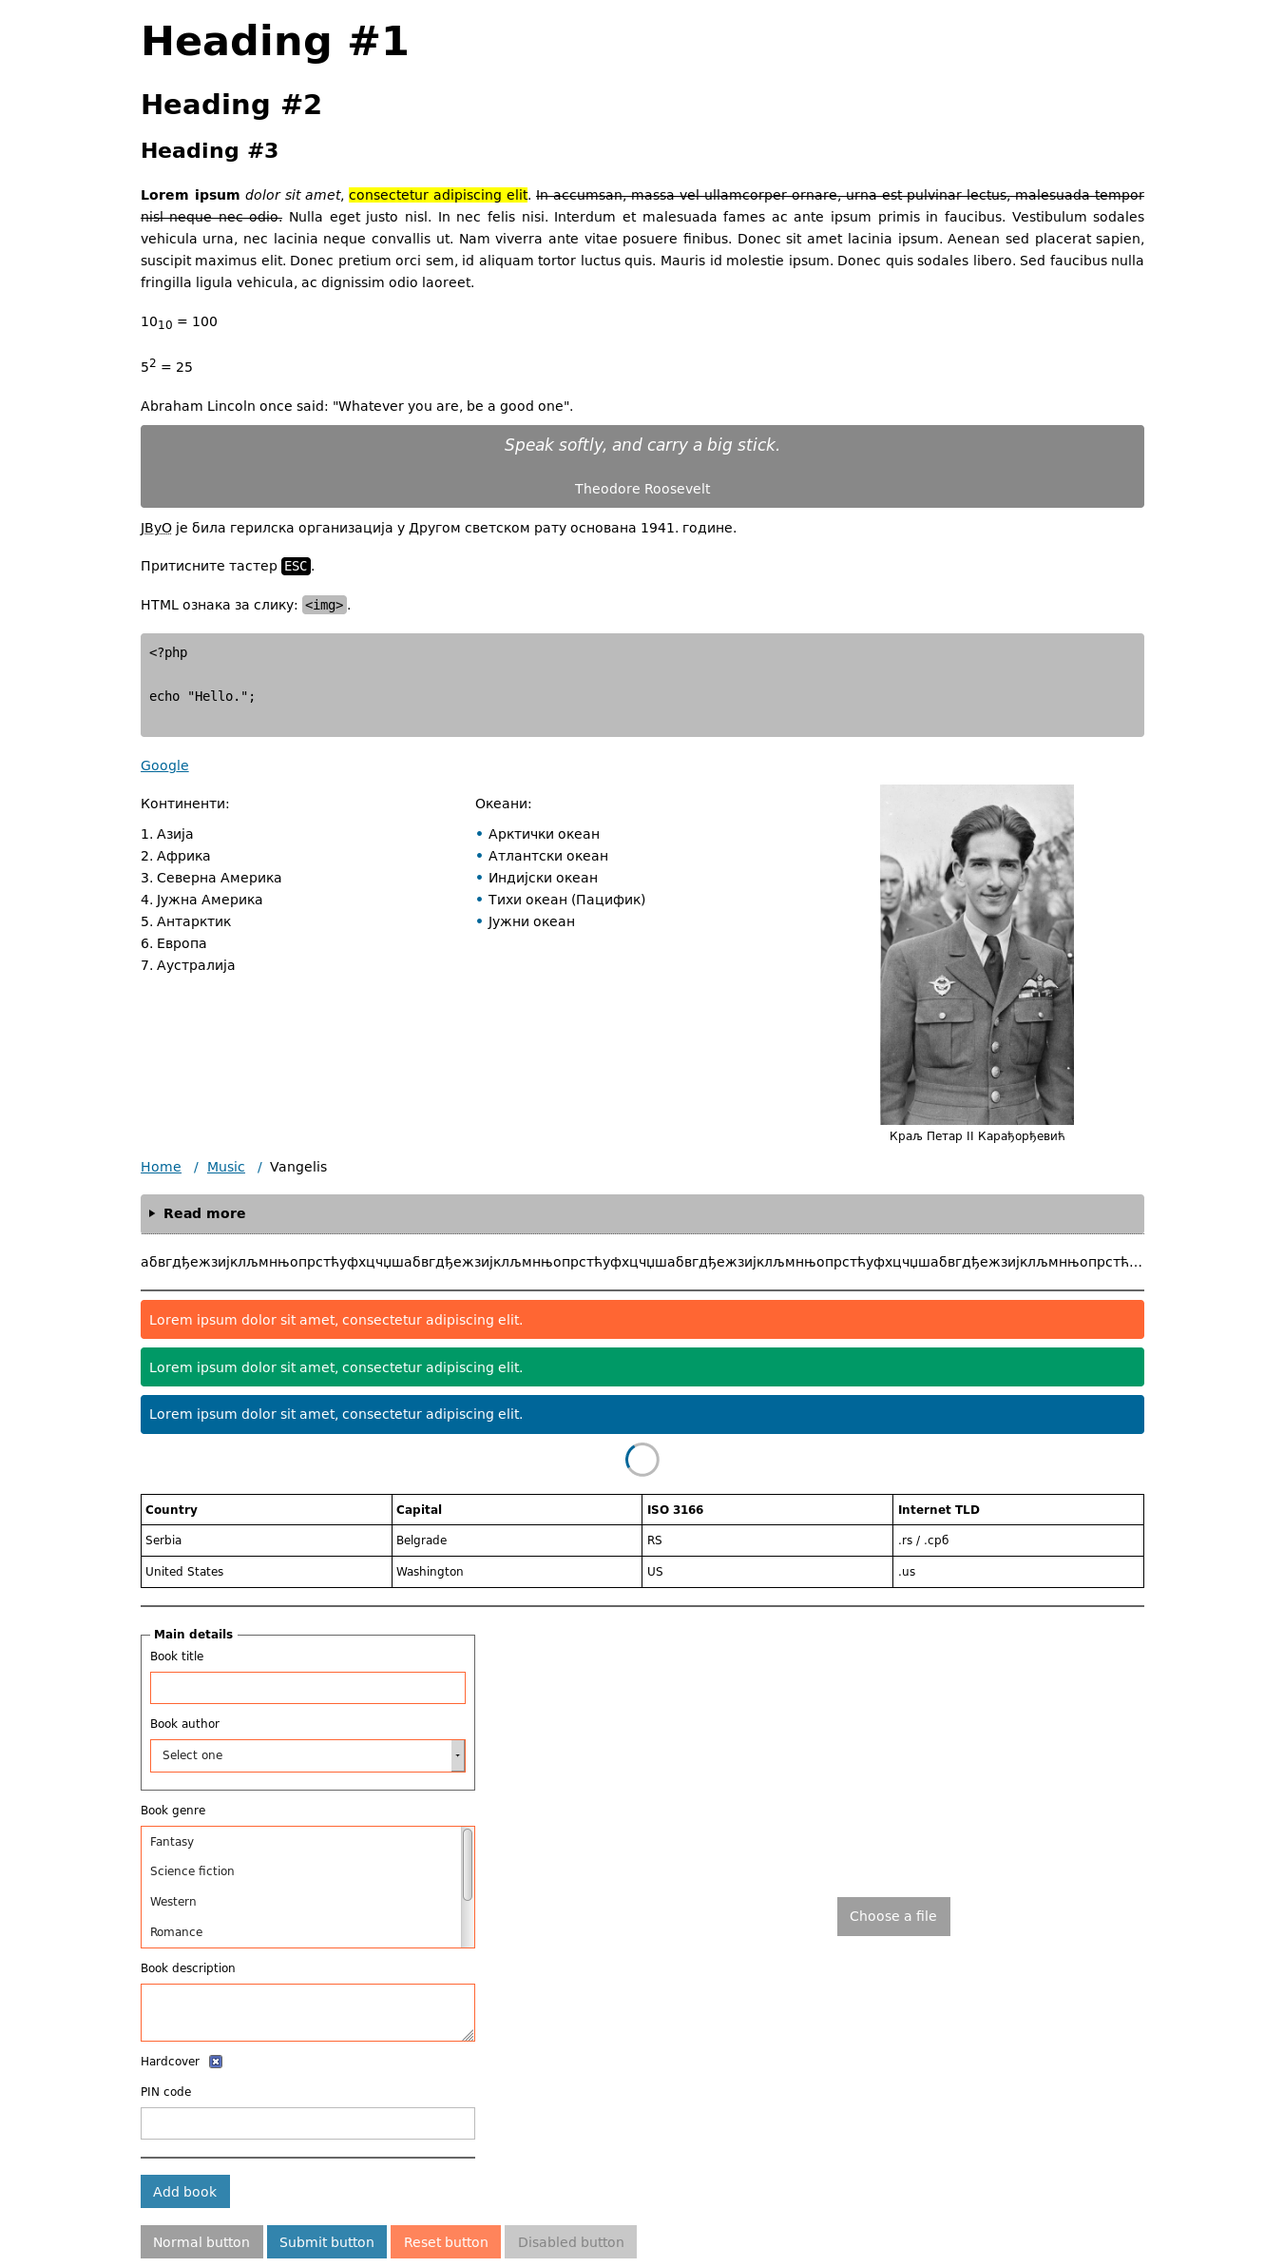
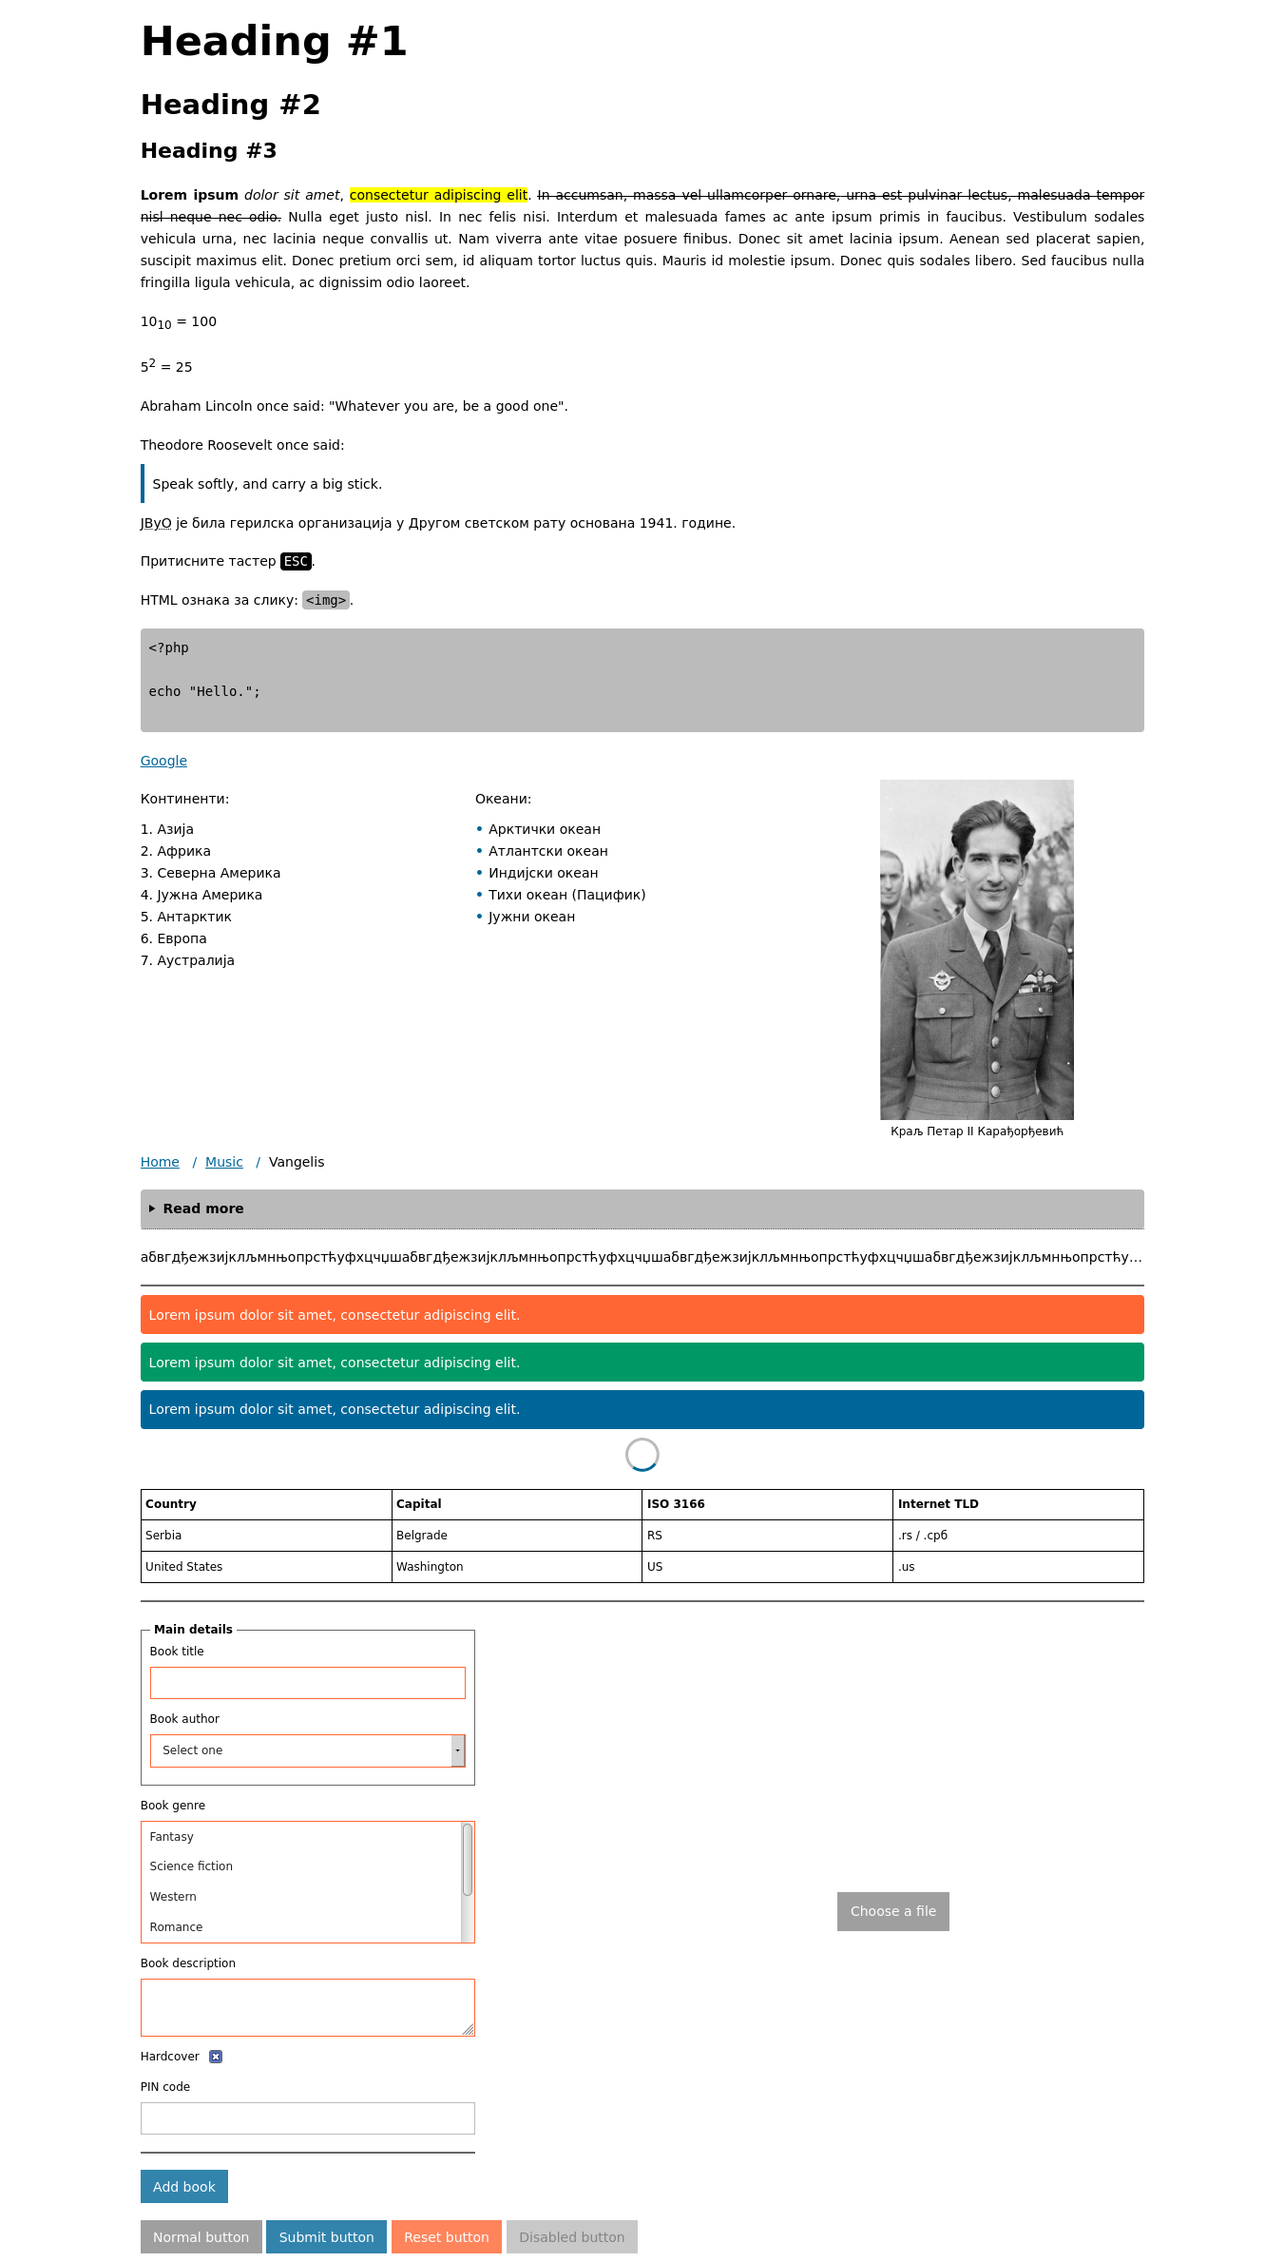
Change blockquote style

diff --git a/css/minimalizr.css b/css/minimalizr.css
@@ -1,1 +1,1 @@
-*{box-sizing:border-box;margin:0;outline:none;padding:0}*:focus{outline:1px dotted #888;outline-offset:3px}html{scroll-behavior:smooth}body{font-family:sans-serif;font-size:1rem;line-height:1.6rem;word-wrap:break-word}::selection{background-color:#069;color:#fff}button{font-size:1rem}.container{width:1200px;max-width:100%;margin:0 auto;padding:0 10px}.container-fluid{width:100%}.row{display:grid;grid-template-columns:repeat(12, 1fr)}.col-md-1{grid-column:span 1}.col-md-2{grid-column:span 2}.col-md-3{grid-column:span 3}.col-md-4{grid-column:span 4}.col-md-5{grid-column:span 5}.col-md-6{grid-column:span 6}.col-md-7{grid-column:span 7}.col-md-8{grid-column:span 8}.col-md-9{grid-column:span 9}.col-md-10{grid-column:span 10}.col-md-11{grid-column:span 11}.col-md-12{grid-column:span 12}.col-pull-left{grid-column-start:1}.col-pull-right{grid-column-end:12}@media screen and (max-width: 768px){.col-sm-1{grid-column:span 1}.col-sm-2{grid-column:span 2}.col-sm-3{grid-column:span 3}.col-sm-4{grid-column:span 4}.col-sm-5{grid-column:span 5}.col-sm-6{grid-column:span 6}.col-sm-7{grid-column:span 7}.col-sm-8{grid-column:span 8}.col-sm-9{grid-column:span 9}.col-sm-10{grid-column:span 10}.col-sm-11{grid-column:span 11}.col-sm-12{grid-column:span 12}}.text-white{color:#fff}.text-red{color:#f63}.text-green{color:#096}.text-blue{color:#069}.text-cyan{color:#099}.text-yellow{color:#ff0}.text-magenta{color:#9f4576}.text-gray{color:#888}.text-light-gray{color:#bbb}.text-dark-gray{color:#666}.text-black{color:#000}.bg-white{background-color:#fff}.bg-red{background-color:#f63}.bg-green{background-color:#096}.bg-blue{background-color:#069}.bg-cyan{background-color:#099}.bg-yellow{background-color:#ff0}.bg-magenta{background-color:#9f4576}.bg-gray{background-color:#888}.bg-light-gray{background-color:#bbb}.bg-dark-gray{background-color:#666}.bg-black{background-color:#000}.hide{display:none}.bordered{border:1px solid #888}.padded{padding:10px}.rounded{border-radius:4px}.rounded-circle{border-radius:50%}.underline{text-decoration:underline}.larger{font-size:larger}.smaller{font-size:smaller}.text-left{text-align:left}.text-center{text-align:center}.text-right{text-align:right}.text-justify{text-align:justify}.centered{display:flex;justify-content:center;align-items:center}.truncate{white-space:nowrap;overflow:hidden;text-overflow:ellipsis}@media screen and (max-width: 768px){.hide-on-sm{display:none}}h1,h2,h3{margin:10px 0}h1{font-size:3rem;line-height:4.8rem}h2{font-size:2rem;line-height:3.2rem}h3{font-size:1.5rem;line-height:2.4rem}p{padding:10px 0;text-align:justify}a{color:#069;text-decoration:underline}a:active,a:visited{color:#9f4576}a:hover{text-decoration:none}a:not([href]){color:#000;text-decoration:none}strong{font-weight:bold}em{font-style:italic}mark{background-color:#ff0}del{text-decoration:line-through}sub{font-size:smaller;vertical-align:sub}sup{font-size:smaller;vertical-align:super}q::before{content:'"'}q::after{content:'"'}blockquote{padding:10px 0;font-style:italic}blockquote footer{font-style:normal}hr{border:2px solid #666;margin:10px 0}cite{font-style:italic}abbr[title]{text-decoration:underline dotted}pre.code,code,kbd{padding:2px 4px;border-radius:4px;font-family:monospace}kbd{background-color:#000;color:#fff}code{background-color:#bbb}pre.code{background-color:#bbb;margin:10px 0;overflow-x:auto;padding:10px;user-select:all;tab-size:2;-moz-tab-size:2}ul,ol{list-style-position:inside}img{max-width:100%;vertical-align:middle}figure{display:inline-block}figure figcaption{font-size:smaller;text-align:center}footer{font-size:smaller}details{background-color:#bbb;border-radius:4px;margin:10px 0}details summary{border-bottom:1px dotted #666;cursor:pointer;font-weight:bold;padding:10px;user-select:none}details div{margin-left:10px;padding:10px}.table-responsive{overflow-x:auto}table{font-size:smaller;border-collapse:collapse;margin:10px 0;table-layout:fixed;width:100%;min-width:500px}table,table th,table td{border:1px solid #000}table th{font-weight:bold}table th,table td{padding:5px;text-align:left;white-space:nowrap;overflow-x:hidden;text-overflow:ellipsis}form{display:grid;grid-template-columns:1fr;grid-gap:10px;margin:10px 0}form>label,form fieldset>label{display:flex;flex-direction:column;align-items:flex-start}form>label span,form fieldset>label span{user-select:none;margin-bottom:5px;font-size:smaller}form>label input,form>label textarea,form>label select,form>label button,form fieldset>label input,form fieldset>label textarea,form fieldset>label select,form fieldset>label button{font-size:smaller}form>label input,form>label textarea,form>label select,form fieldset>label input,form fieldset>label textarea,form fieldset>label select{background-color:#fff;border:1px solid #bbb;font-family:sans-serif;padding:10px;width:100%}form>label input:disabled,form>label textarea:disabled,form>label select:disabled,form fieldset>label input:disabled,form fieldset>label textarea:disabled,form fieldset>label select:disabled{background-color:#bbb}form>label input:invalid,form>label textarea:invalid,form>label select:invalid,form fieldset>label input:invalid,form fieldset>label textarea:invalid,form fieldset>label select:invalid{border-color:#f63}form>label input:focus,form>label textarea:focus,form>label select:focus,form fieldset>label input:focus,form fieldset>label textarea:focus,form fieldset>label select:focus{border-color:#666;outline:none}form>label select[multiple],form fieldset>label select[multiple]{max-height:200px;padding:0}form>label select[multiple] option,form fieldset>label select[multiple] option{padding:10px}form>label textarea,form fieldset>label textarea{min-height:50px;max-height:200px;resize:vertical}form .form-checkbox{display:flex;flex-direction:row;align-items:center;flex-wrap:wrap;width:fit-content;width:-moz-fit-content}form .form-checkbox label{cursor:pointer;display:flex;align-items:center;user-select:none;font-size:smaller}form .form-checkbox input[type=checkbox]{cursor:pointer;align-self:center;width:auto;margin-left:10px}form button{width:fit-content;width:-moz-fit-content}form fieldset{border:1px solid #666;padding-left:10px;padding-right:10px;padding-bottom:10px}form fieldset legend{font-size:smaller;font-weight:bold;padding:0 5px}form fieldset>label{margin-bottom:10px}button{background-color:#888;border:0;color:#fff;user-select:none;cursor:pointer;padding:10px 15px;opacity:.8;transition-property:opacity;transition-duration:.3s;transition-timing-function:ease-in-out}button:hover{opacity:1}button:active{transform:translateY(1px);outline:none}button[type=submit]{background-color:#069;color:#fff}button[type=reset]{background-color:#f63;color:#fff}button[disabled]{background-color:#bbb;color:#666;cursor:not-allowed}.file-upload{background-color:#888;color:#fff;cursor:pointer;padding:10px 15px;opacity:.8;transition-property:opacity;transition-duration:.3s;transition-timing-function:ease-in-out}.file-upload:hover{opacity:1}.file-upload:active{transform:translateY(1px);outline:none}.file-upload input{display:none}ul.breadcrumbs{display:flex;list-style-type:none;user-select:none}ul.breadcrumbs li{padding:10px 0}ul.breadcrumbs li:not(:last-child)::after{content:" / ";color:#069;display:inline-block;margin:0 10px}ul.breadcrumbs li:last-child{color:inherit;text-decoration:none}@keyframes spin{from{transform:rotate(0deg)}to{transform:rotate(360deg)}}.spinner{border:4px solid #bbb;border-top:4px solid #069;border-radius:50%;height:40px;width:40px;animation-name:spin;animation-duration:1s;animation-timing-function:linear;animation-iteration-count:infinite;margin:10px auto}@keyframes fade-in{from{opacity:0}to{opacity:1}}.fade-in{animation-name:fade-in;animation-duration:1s;animation-timing-function:ease-out;animation-iteration-count:1}.list-bulleted{list-style-type:none}.list-bulleted li:before{content:"•";color:#069;display:inline-block;font-weight:bold;width:1em}/*# sourceMappingURL=minimalizr.css.map */
+*{box-sizing:border-box;margin:0;outline:none;padding:0}*:focus{outline:1px dotted #888;outline-offset:3px}html{scroll-behavior:smooth}body{font-family:sans-serif;font-size:1rem;line-height:1.6rem;word-wrap:break-word}::selection{background-color:#069;color:#fff}button{font-size:1rem}.container{width:1200px;max-width:100%;margin:0 auto;padding:0 10px}.container-fluid{width:100%}.row{display:grid;grid-template-columns:repeat(12, 1fr)}.col-md-1{grid-column:span 1}.col-md-2{grid-column:span 2}.col-md-3{grid-column:span 3}.col-md-4{grid-column:span 4}.col-md-5{grid-column:span 5}.col-md-6{grid-column:span 6}.col-md-7{grid-column:span 7}.col-md-8{grid-column:span 8}.col-md-9{grid-column:span 9}.col-md-10{grid-column:span 10}.col-md-11{grid-column:span 11}.col-md-12{grid-column:span 12}.col-pull-left{grid-column-start:1}.col-pull-right{grid-column-end:12}@media screen and (max-width: 768px){.col-sm-1{grid-column:span 1}.col-sm-2{grid-column:span 2}.col-sm-3{grid-column:span 3}.col-sm-4{grid-column:span 4}.col-sm-5{grid-column:span 5}.col-sm-6{grid-column:span 6}.col-sm-7{grid-column:span 7}.col-sm-8{grid-column:span 8}.col-sm-9{grid-column:span 9}.col-sm-10{grid-column:span 10}.col-sm-11{grid-column:span 11}.col-sm-12{grid-column:span 12}}.text-white{color:#fff}.text-red{color:#f63}.text-green{color:#096}.text-blue{color:#069}.text-cyan{color:#099}.text-yellow{color:#ff0}.text-magenta{color:#9f4576}.text-gray{color:#888}.text-light-gray{color:#bbb}.text-dark-gray{color:#666}.text-black{color:#000}.bg-white{background-color:#fff}.bg-red{background-color:#f63}.bg-green{background-color:#096}.bg-blue{background-color:#069}.bg-cyan{background-color:#099}.bg-yellow{background-color:#ff0}.bg-magenta{background-color:#9f4576}.bg-gray{background-color:#888}.bg-light-gray{background-color:#bbb}.bg-dark-gray{background-color:#666}.bg-black{background-color:#000}.hide{display:none}.bordered{border:1px solid #888}.padded{padding:10px}.rounded{border-radius:4px}.rounded-circle{border-radius:50%}.underline{text-decoration:underline}.larger{font-size:larger}.smaller{font-size:smaller}.text-left{text-align:left}.text-center{text-align:center}.text-right{text-align:right}.text-justify{text-align:justify}.centered{display:flex;justify-content:center;align-items:center}.truncate{white-space:nowrap;overflow:hidden;text-overflow:ellipsis}@media screen and (max-width: 768px){.hide-on-sm{display:none}}h1,h2,h3{margin:10px 0}h1{font-size:3rem;line-height:4.8rem}h2{font-size:2rem;line-height:3.2rem}h3{font-size:1.5rem;line-height:2.4rem}p{padding:10px 0;text-align:justify}a{color:#069;text-decoration:underline}a:active,a:visited{color:#9f4576}a:hover{text-decoration:none}a:not([href]){color:#000;text-decoration:none}strong{font-weight:bold}em{font-style:italic}mark{background-color:#ff0}del{text-decoration:line-through}sub{font-size:smaller;vertical-align:sub}sup{font-size:smaller;vertical-align:super}q::before{content:'"'}q::after{content:'"'}blockquote{border-left:5px solid #069;padding:10px}hr{border:2px solid #666;margin:10px 0}cite{font-style:italic}abbr[title]{text-decoration:underline dotted}pre.code,code,kbd{padding:2px 4px;border-radius:4px;font-family:monospace}kbd{background-color:#000;color:#fff}code{background-color:#bbb}pre.code{background-color:#bbb;margin:10px 0;overflow-x:auto;padding:10px;user-select:all;tab-size:2;-moz-tab-size:2}ul,ol{list-style-position:inside}img{max-width:100%;vertical-align:middle}figure{display:inline-block}figure figcaption{font-size:smaller;text-align:center}footer{font-size:smaller}details{background-color:#bbb;border-radius:4px;margin:10px 0}details summary{border-bottom:1px dotted #666;cursor:pointer;font-weight:bold;padding:10px;user-select:none}details div{margin-left:10px;padding:10px}.table-responsive{overflow-x:auto}table{font-size:smaller;border-collapse:collapse;margin:10px 0;table-layout:fixed;width:100%;min-width:500px}table,table th,table td{border:1px solid #000}table th{font-weight:bold}table th,table td{padding:5px;text-align:left;white-space:nowrap;overflow-x:hidden;text-overflow:ellipsis}form{display:grid;grid-template-columns:1fr;grid-gap:10px;margin:10px 0}form>label,form fieldset>label{display:flex;flex-direction:column;align-items:flex-start}form>label span,form fieldset>label span{user-select:none;margin-bottom:5px;font-size:smaller}form>label input,form>label textarea,form>label select,form>label button,form fieldset>label input,form fieldset>label textarea,form fieldset>label select,form fieldset>label button{font-size:smaller}form>label input,form>label textarea,form>label select,form fieldset>label input,form fieldset>label textarea,form fieldset>label select{background-color:#fff;border:1px solid #bbb;font-family:sans-serif;padding:10px;width:100%}form>label input:disabled,form>label textarea:disabled,form>label select:disabled,form fieldset>label input:disabled,form fieldset>label textarea:disabled,form fieldset>label select:disabled{background-color:#bbb}form>label input:invalid,form>label textarea:invalid,form>label select:invalid,form fieldset>label input:invalid,form fieldset>label textarea:invalid,form fieldset>label select:invalid{border-color:#f63}form>label input:focus,form>label textarea:focus,form>label select:focus,form fieldset>label input:focus,form fieldset>label textarea:focus,form fieldset>label select:focus{border-color:#666;outline:none}form>label select[multiple],form fieldset>label select[multiple]{max-height:200px;padding:0}form>label select[multiple] option,form fieldset>label select[multiple] option{padding:10px}form>label textarea,form fieldset>label textarea{min-height:50px;max-height:200px;resize:vertical}form .form-checkbox{display:flex;flex-direction:row;align-items:center;flex-wrap:wrap;width:fit-content;width:-moz-fit-content}form .form-checkbox label{cursor:pointer;display:flex;align-items:center;user-select:none;font-size:smaller}form .form-checkbox input[type=checkbox]{cursor:pointer;align-self:center;width:auto;margin-left:10px}form button{width:fit-content;width:-moz-fit-content}form fieldset{border:1px solid #666;padding-left:10px;padding-right:10px;padding-bottom:10px}form fieldset legend{font-size:smaller;font-weight:bold;padding:0 5px}form fieldset>label{margin-bottom:10px}button{background-color:#888;border:0;color:#fff;user-select:none;cursor:pointer;padding:10px 15px;opacity:.8;transition-property:opacity;transition-duration:.3s;transition-timing-function:ease-in-out}button:hover{opacity:1}button:active{transform:translateY(1px);outline:none}button[type=submit]{background-color:#069;color:#fff}button[type=reset]{background-color:#f63;color:#fff}button[disabled]{background-color:#bbb;color:#666;cursor:not-allowed}.file-upload{background-color:#888;color:#fff;cursor:pointer;padding:10px 15px;opacity:.8;transition-property:opacity;transition-duration:.3s;transition-timing-function:ease-in-out}.file-upload:hover{opacity:1}.file-upload:active{transform:translateY(1px);outline:none}.file-upload input{display:none}ul.breadcrumbs{display:flex;list-style-type:none;user-select:none}ul.breadcrumbs li{padding:10px 0}ul.breadcrumbs li:not(:last-child)::after{content:" / ";color:#069;display:inline-block;margin:0 10px}ul.breadcrumbs li:last-child{color:inherit;text-decoration:none}@keyframes spin{from{transform:rotate(0deg)}to{transform:rotate(360deg)}}.spinner{border:4px solid #bbb;border-top:4px solid #069;border-radius:50%;height:40px;width:40px;animation-name:spin;animation-duration:1s;animation-timing-function:linear;animation-iteration-count:infinite;margin:10px auto}@keyframes fade-in{from{opacity:0}to{opacity:1}}.fade-in{animation-name:fade-in;animation-duration:1s;animation-timing-function:ease-out;animation-iteration-count:1}.list-bulleted{list-style-type:none}.list-bulleted li:before{content:"•";color:#069;display:inline-block;font-weight:bold;width:1em}/*# sourceMappingURL=minimalizr.css.map */

diff --git a/index.html b/index.html
@@ -22,12 +22,9 @@
 
 		<p>Abraham Lincoln once said: <q>Whatever you are, be a good one</q>.</p>
 
-		<blockquote class="bg-gray text-white text-center padded rounded larger">
+		<p>Theodore Roosevelt once said:</p>
+		<blockquote>
 			Speak softly, and carry a big stick.
-			<br><br>
-			<footer>
-				Theodore Roosevelt
-			</footer>
 		</blockquote>
 
 		<p lang="sr"><abbr title="Југословенска војска у отаџбини">ЈВуО</abbr> је била герилска организација у Другом светском рату основана 1941. године.</p>

diff --git a/sass/components/_base.scss b/sass/components/_base.scss
@@ -76,12 +76,8 @@ q {
 }
 
 blockquote {
-	padding: $spacing 0;
-	font-style: italic;
-
-	footer {
-		font-style: normal;
-	}
+	border-left: 5px solid map-get($colors, 'blue');
+	padding: $spacing;
 }
 
 hr {
